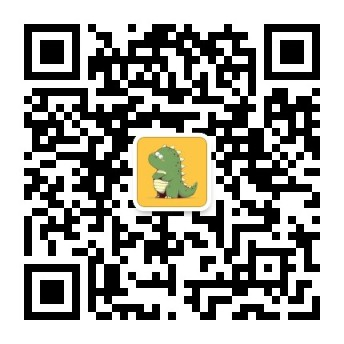
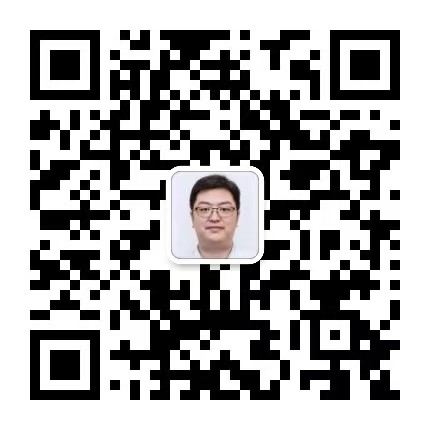
更新项目文件

diff --git a/index.html b/index.html
@@ -4,12 +4,12 @@
 <head>
 	<meta charset="UTF-8">
 	<meta name="viewport" content="width=device-width, initial-scale=1.0, maximum-scale=1.0, user-scalable=no">
-	<title>缪斯</title>
-	<meta name="description" content="缪斯 - 数字游民 & 互联网探索者个人主页">
+	<title>陈恩</title>
+	<meta name="description" content="陈恩 - AI知识分享个人主页">
 	<meta name="theme-color" content="#3b82f6">
 	<meta name="apple-mobile-web-app-capable" content="yes">
 	<meta name="apple-mobile-web-app-status-bar-style" content="black-translucent">
-	<link rel="apple-touch-icon" href="assets/images/Muse.jpg">
+	<link rel="apple-touch-icon" href="assets/images/chenen_logo.jpg">
 
 	<!-- 引入霞鹜文楷屏幕阅读体 -->
 	<link rel="stylesheet" href="//cdn.jsdelivr.net/npm/lxgw-wenkai-screen-webfont@1.1.0/style.css">
@@ -18,7 +18,7 @@
 	<!-- 主样式表 -->
 	<link rel="stylesheet" href="style.css">
 	<!-- Favicon -->
-	<link rel="icon" href="assets/images/Muse.jpg">
+	<link rel="icon" href="assets/images/chenen_logo.jpg">
 </head>
 
 <body>
@@ -64,16 +64,16 @@
 		<div class="card">
 			<div class="profile">
 				<div class="avatar">
-					<img src="assets/images/Muse.jpg" alt="个人头像">
+					<img src="assets/images/chenen_logo.jpg" alt="个人头像">
 				</div>
-				<h1>缪斯</h1>
+				<h1>陈恩</h1>
 				<p class="title">
 					<i class="fas fa-code"></i>
-					数字游民 & 互联网探索者
+					AI知识分享
 				</p>
 				<div class="location">
 					<i class="fas fa-map-marker-alt"></i>
-					<span>中国，成都</span>
+					<span>中国，长沙</span>
 				</div>
 			</div>
 
@@ -107,7 +107,7 @@
 						<h2>关于我</h2>
 					</div>
 					<div class="widget-content">
-						<p>拥有 4 年 AI 算法与应用开发经验，主打 AI 技术栈实践与创新。顺带折腾自媒体和 Crypto，有点野路子但很实战。好奇心重，热爱瞎搞各种新东东。熟练使用 Python，喜欢沉浸在互联网世界中自由穿梭与价值创造。信奉“边学边干”，致力于以技术和内容为驱动，实现可持续的线上收入模式。</p>
+						<p>AI浪潮中，我筑起文字驿站——用体温镌刻智能纪元的情书。这里寄存碳基文明的诗意，流淌算法难摹的感性光谱。每篇都是时光胶囊，寄给十年后的我与此刻的你。若途经此窗，请饮茶小坐。以汉字为舟，共溯转瞬即逝的心跳。</p>
 					</div>
 				</div>
 			</div>
@@ -150,7 +150,7 @@
 					</div>
 					<div class="social-info">
 						<h4>WeChat</h4>
-						<p>点击复制微信号：museaction</p>
+						<p>点击复制微信号：chenen1225</p>
 					</div>
 					<div class="social-arrow copy-icon">
 						<i class="fas fa-copy"></i>
@@ -163,46 +163,35 @@
 					</div>
 					<div class="social-info">
 						<h4>公众号</h4>
-						<p>【亲爱的缪斯】AI 相关知识分享</p>
+						<p>我是陈恩</p>
 					</div>
 					<div class="social-arrow">
 						<i class="fas fa-qrcode"></i>
 					</div>
 				</a>
 
-				<a href="https://www.youtube.com/@亲爱的缪斯" target="_blank" class="social-link youtube">
-					<div class="social-icon">
-						<i class="fab fa-youtube"></i>
-					</div>
-					<div class="social-info">
-						<h4>YouTube</h4>
-						<p>【亲爱的缪斯】互联网搞钱相关知识分享</p>
-					</div>
-					<div class="social-arrow">
-						<i class="fas fa-chevron-right"></i>
-					</div>
-				</a>
+				
 
-				<a href="https://space.bilibili.com/1372455931?spm_id_from=333.33.0.0" target="_blank" class="social-link bilibili">
+				<a href="https://space.bilibili.com/428143691?spm_id_from=333.33.0.0" target="_blank" class="social-link bilibili">
 					<div class="social-icon">
 						<i class="fas fa-tv"></i>
 					</div>
 					<div class="social-info">
 						<h4>哔哩哔哩</h4>
-						<p>【亲爱的缪斯_】AI 和 Web3 相关知识分享</p>
+						<p>【我是陈恩】AI 相关知识分享</p>
 					</div>
 					<div class="social-arrow">
 						<i class="fas fa-chevron-right"></i>
 					</div>
 				</a>
 
-				<a href="https://github.com/miusing" target="_blank" class="social-link github">
+				<a href="https://github.com/chenen1225" target="_blank" class="social-link github">
 					<div class="social-icon">
 						<i class="fab fa-github"></i>
 					</div>
 					<div class="social-info">
 						<h4>GitHub</h4>
-						<p>查看我的开源项目</p>
+						<p>查看我收藏的开源项目</p>
 					</div>
 					<div class="social-arrow">
 						<i class="fas fa-chevron-right"></i>

diff --git a/script.js b/script.js
@@ -1,5 +1,5 @@
 /**
- * 缪斯个人主页 - JavaScript文件
+ * 陈恩个人主页 - JavaScript文件
  * 包含所有功能：配置、动画、工具函数等
  */
 
@@ -7,25 +7,24 @@
 const CONFIG = {
   // 基本信息
   basic: {
-    name: "缪斯",
-    title: "数字游民 & 互联网探索者",
-    location: "中国，成都",
-    avatar: "./assets/images/Muse.jpg",
+    name: "陈恩",
+    title: "AI 知识分享",
+    location: "中国，长沙",
+    avatar: "./assets/images/chenen_logo.jpg",
   },
 
   // 联系方式
   contact: {
-    wechat: "./assets/images/Wechat.jpg",
+    wechat: "./assets/images/Wechat.png",
     publicAccount: "./assets/images/gzh.jpg",
     contactText: "欢迎添加个人社交媒体互相学习！",
-    github: "https://github.com/miusing",
-    youtube: "https://www.youtube.com/@亲爱的缪斯",
-    bilibili: "https://space.bilibili.com/1372455931"
+    github: "https://github.com/chenen1225",
+    bilibili: "https://space.bilibili.com/428143691"
   },
 
   // 关于我部分
   about: {
-    content: "拥有 4 年 AI 算法与应用开发经验，主打 AI 技术栈实践与创新。顺带折腾自媒体和 Crypto，有点野路子但很实战。好奇心重，热爱瞎搞各种新东东。熟练使用 Python，喜欢沉浸在互联网世界中自由穿梭与价值创造。信奉“边学边干”，致力于以技术和内容为驱动，实现可持续的线上收入模式。"
+    content: "AI浪潮中，我筑起文字驿站——用体温镌刻智能纪元的情书。这里寄存碳基文明的诗意，流淌算法难摹的感性光谱。每篇都是时光胶囊，寄给十年后的我与此刻的你。若途经此窗，请饮茶小坐。以汉字为舟，共溯转瞬即逝的心跳。"
   },
 
 
@@ -41,8 +40,8 @@ const CONFIG = {
   // 版权信息
   copyright: {
     year: "2021 - 2025",
-    name: "缪斯",
-    url: "https://museact.ai"
+    name: "陈恩",
+    url: "https://chenen.club"
   },
 
   // 主题颜色
@@ -141,18 +140,18 @@ function applyBasicInfo() {
     if (!CONFIG.basic) return;
 
     const nameElement = document.querySelector('.profile h1');
-    if (nameElement) nameElement.textContent = CONFIG.basic.name || '缪斯';
+    if (nameElement) nameElement.textContent = CONFIG.basic.name || '陈恩';
 
     const titleElement = document.querySelector('.profile .title');
     if (titleElement) {
-        titleElement.innerHTML = `<i class="fas fa-code"></i>${CONFIG.basic.title || '数字游民 & 互联网探索者'}`;
+        titleElement.innerHTML = `<i class="fas fa-code"></i>${CONFIG.basic.title || 'AI 知识分享'}`;
     }
 
     const locationElement = document.querySelector('.location span');
-    if (locationElement) locationElement.textContent = CONFIG.basic.location || '中国，成都';
+    if (locationElement) locationElement.textContent = CONFIG.basic.location || '中国，长沙';
 
     const avatarElement = document.querySelector('.avatar img');
-    if (avatarElement) avatarElement.src = CONFIG.basic.avatar || './assets/images/Muse.jpg';
+    if (avatarElement) avatarElement.src = CONFIG.basic.avatar || './assets/images/chenen_logo.jpg';
 }
 
 function applyContactInfo() {
@@ -444,7 +443,7 @@ function setupPublicAccountQR() {
                     </div>
                     <div class="qr-container">
                         <img src="${CONFIG.contact.publicAccount}" alt="公众号二维码" class="qr-image">
-                        <p class="qr-text">扫码关注「亲爱的缪斯」</p>
+                        <p class="qr-text">扫码关注「我是陈恩」</p>
                     </div>
                 </div>
             `;
